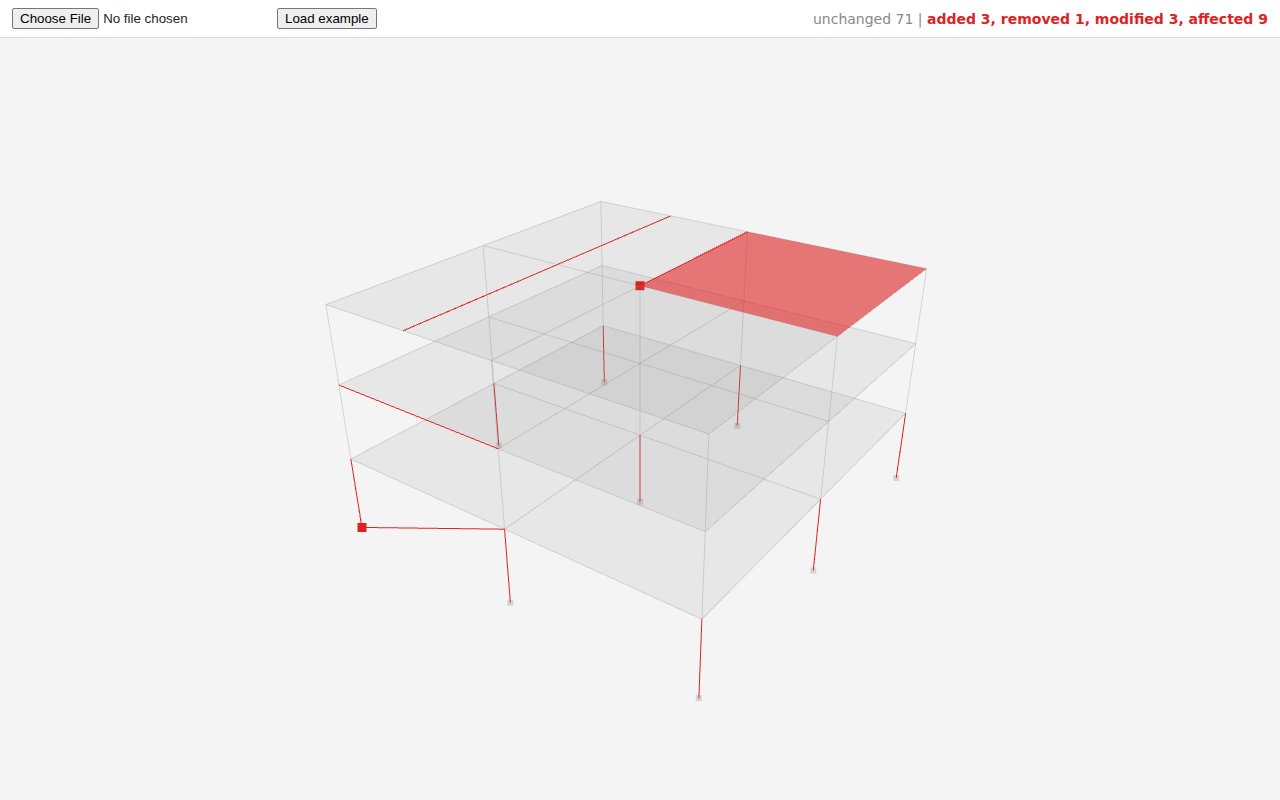
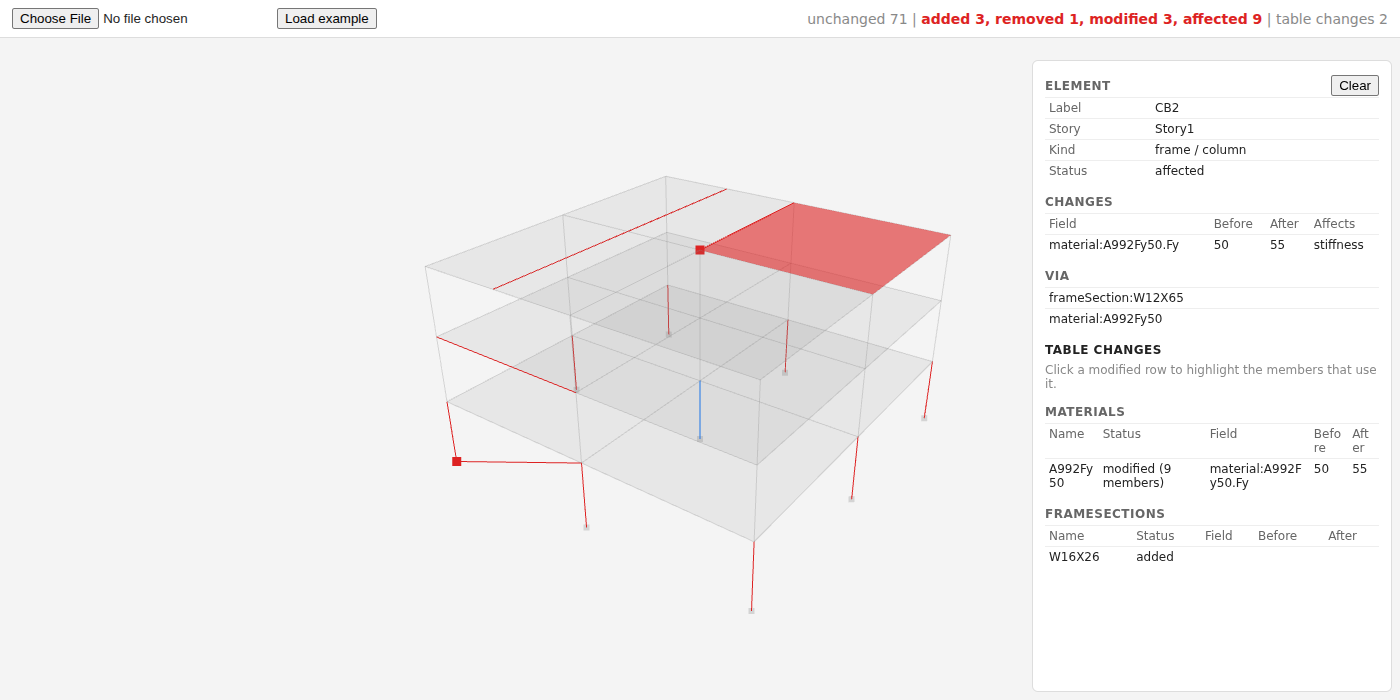
feat: element details and table changes panel in the viewer (#6)
* feat: element details and table changes panel in the viewer

Click an element to see its changes and via list, list every table
change with before and after values, and highlight the members that
use a modified section or material. Calls out when only tables changed.

* docs: viewer screenshot shows the details panel

---------

diff --git a/viewer/index.html b/viewer/index.html
@@ -14,6 +14,19 @@
           background: rgba(210, 34, 34, 0.08); border: 3px dashed #d22; font-size: 20px; z-index: 2; }
   body.dragging #drop { display: flex; }
   canvas { display: block; }
+  #notice { flex-basis: 100%; color: #d22; font-weight: 600; }
+  #notice:empty { display: none; }
+  #side { position: fixed; top: 60px; right: 8px; bottom: 8px; width: 360px; overflow: auto; z-index: 1;
+          background: #fff; border: 1px solid #ddd; border-radius: 6px; padding: 4px 12px 12px; box-sizing: border-box; }
+  #side:empty { display: none; }
+  #side h3 { margin: 14px 0 4px; font-size: 12px; text-transform: uppercase; letter-spacing: .04em; color: #666; }
+  #side table { border-collapse: collapse; width: 100%; font-size: 12px; }
+  #side th, #side td { border-top: 1px solid #eee; padding: 3px 4px; text-align: left; vertical-align: top; overflow-wrap: anywhere; }
+  #side th { color: #666; font-weight: 500; white-space: nowrap; }
+  #side .hint { color: #888; font-size: 12px; margin: 6px 0 0; }
+  #side button { float: right; margin-top: 10px; }
+  tr.pick { cursor: pointer; } tr.pick:hover, tr.on { background: #e3ecfb; }
+  @media (max-width: 640px) { #side { top: auto; left: 8px; width: auto; max-height: 45vh; } }
 </style>
 <script type="importmap">
 { "imports": {
@@ -27,14 +40,16 @@
   <input type="file" id="file" accept=".json,application/json">
   <button id="example">Load example</button>
   <span id="legend" class="gray">Load a diff JSON (file picker or drag and drop)</span>
+  <span id="notice"></span>
 </div>
+<div id="side"></div>
 <div id="drop">Drop diff JSON here</div>
 <script type="module">
 // ponytail: all inline so the page works from file:// (Chrome blocks local module imports there)
 import * as THREE from 'three';
 import { OrbitControls } from 'three/addons/controls/OrbitControls.js';
 
-const GRAY = new THREE.Color(0x888888), RED = new THREE.Color(0xdd2222);
+const GRAY = new THREE.Color(0x888888), RED = new THREE.Color(0xdd2222), PICK = new THREE.Color(0x1a73e8);
 const renderer = new THREE.WebGLRenderer({ antialias: true });
 renderer.setPixelRatio(devicePixelRatio);
 document.body.appendChild(renderer.domElement);
@@ -43,7 +58,8 @@ scene.background = new THREE.Color(0xf4f4f4);
 const camera = new THREE.PerspectiveCamera(45, 1, 1, 1e6);
 camera.up.set(0, 0, 1);  // ETABS is Z-up
 const controls = new OrbitControls(camera, renderer.domElement);
-let model = null;
+let model = null, overlay = null, diff = null;
+const raycaster = new THREE.Raycaster();
 
 function resize() {
   renderer.setSize(innerWidth, innerHeight);
@@ -54,36 +70,134 @@ addEventListener('resize', resize);
 resize();
 renderer.setAnimationLoop(() => { controls.update(); renderer.render(scene, camera); });
 
+// Flatten elements into line/triangle/point arrays, with the owning element per primitive for picking.
+function arrays(els) {
+  const a = { lines: [], tris: [], pts: [], lineEls: [], triEls: [], ptEls: [] };
+  for (const el of els) {
+    const g = el.geometry;
+    if (el.kind === 'frame') { a.lines.push(...g[0], ...g[1]); a.lineEls.push(el); }
+    else if (el.kind === 'point') { a.pts.push(...g[0]); a.ptEls.push(el); }
+    // ponytail: fan triangulation, right for convex areas; use THREE.ShapeUtils if L-shaped walls/slabs show up
+    else for (let i = 1; i < g.length - 1; i++) { a.tris.push(...g[0], ...g[i], ...g[i + 1]); a.triEls.push(el); }
+  }
+  return a;
+}
+
+const geo = arr => new THREE.BufferGeometry().setAttribute('position', new THREE.Float32BufferAttribute(arr, 3));
+
 // One mesh per (kind, changed) bucket keeps draw calls low on large models.
 function build(diff) {
-  const buckets = { gray: { lines: [], tris: [], pts: [] }, red: { lines: [], tris: [], pts: [] } };
-  for (const el of diff.elements) {
-    const b = buckets[el.status === 'unchanged' ? 'gray' : 'red'];
-    const g = el.geometry;
-    if (el.kind === 'frame') b.lines.push(...g[0], ...g[1]);
-    else if (el.kind === 'point') b.pts.push(...g[0]);
-    // ponytail: fan triangulation, right for convex areas; use THREE.ShapeUtils if L-shaped walls/slabs show up
-    else for (let i = 1; i < g.length - 1; i++) b.tris.push(...g[0], ...g[i], ...g[i + 1]);
-  }
   const group = new THREE.Group();
-  for (const [name, b] of Object.entries(buckets)) {
-    const red = name === 'red';
-    const color = red ? RED : GRAY;
-    const look = { color, transparent: !red, opacity: red ? 1 : 0.3, depthWrite: red };
-    const geo = arr => new THREE.BufferGeometry().setAttribute('position', new THREE.Float32BufferAttribute(arr, 3));
-    if (b.tris.length) group.add(new THREE.Mesh(geo(b.tris),
-      new THREE.MeshBasicMaterial({ ...look, side: THREE.DoubleSide, opacity: red ? 0.6 : 0.12, transparent: true })));
-    if (b.lines.length) group.add(new THREE.LineSegments(geo(b.lines), new THREE.LineBasicMaterial(look)));
-    if (b.pts.length) group.add(new THREE.Points(geo(b.pts),
-      new THREE.PointsMaterial({ ...look, size: red ? 9 : 6, sizeAttenuation: false })));
-    if (red) group.children.forEach(o => { o.renderOrder = 1; });  // draw red over the gray ghost
+  for (const red of [false, true]) {
+    const b = arrays(diff.elements.filter(el => (el.status === 'unchanged') !== red));
+    const look = { color: red ? RED : GRAY, transparent: !red, opacity: red ? 1 : 0.3, depthWrite: red };
+    const add = (obj, els) => { obj.userData.els = els; if (red) obj.renderOrder = 1; group.add(obj); };  // red over the gray ghost
+    if (b.tris.length) add(new THREE.Mesh(geo(b.tris),
+      new THREE.MeshBasicMaterial({ ...look, side: THREE.DoubleSide, opacity: red ? 0.6 : 0.12, transparent: true })), b.triEls);
+    if (b.lines.length) add(new THREE.LineSegments(geo(b.lines), new THREE.LineBasicMaterial(look)), b.lineEls);
+    if (b.pts.length) add(new THREE.Points(geo(b.pts),
+      new THREE.PointsMaterial({ ...look, size: red ? 9 : 6, sizeAttenuation: false })), b.ptEls);
   }
   return group;
 }
 
-function show(diff) {
-  if (!Array.isArray(diff?.elements)) throw new Error('not an etabs-diff output: no elements array');
+// Selection and table highlights draw on top of everything in blue.
+function highlight(els) {
+  if (overlay) scene.remove(overlay);
+  overlay = null;
+  if (!els.length) return;
+  const b = arrays(els);
+  const look = { color: PICK, depthTest: false, transparent: true };
+  overlay = new THREE.Group();
+  if (b.tris.length) overlay.add(new THREE.Mesh(geo(b.tris), new THREE.MeshBasicMaterial({ ...look, opacity: 0.5, side: THREE.DoubleSide })));
+  if (b.lines.length) overlay.add(new THREE.LineSegments(geo(b.lines), new THREE.LineBasicMaterial(look)));
+  if (b.pts.length) overlay.add(new THREE.Points(geo(b.pts), new THREE.PointsMaterial({ ...look, size: 11, sizeAttenuation: false })));
+  overlay.children.forEach(o => { o.renderOrder = 2; });
+  scene.add(overlay);
+}
+
+const esc = v => String(v).replace(/[&<>"']/g, c => ({ '&': '&amp;', '<': '&lt;', '>': '&gt;', '"': '&quot;', "'": '&#39;' })[c]);
+const val = v => v == null ? '<i class="gray">none</i>' : esc(typeof v === 'string' ? v : JSON.stringify(v));
+const tableEntries = t => (t?.added?.length || 0) + (t?.removed?.length || 0) + Object.keys(t?.modified || {}).length;
+const viaRef = (table, name) => `${table.replace(/ies$/, 'y').replace(/s$/, '')}:${name}`;  // materials -> material:NAME
+
+function changeRows(changes) {
+  if (!changes?.length) return '<p class="hint">No field changes recorded.</p>';
+  return '<table><tr><th>Field</th><th>Before</th><th>After</th><th>Affects</th></tr>' + changes.map(c =>
+    `<tr><td>${esc(c.field)}</td><td>${val(c.before)}</td><td>${val(c.after)}</td><td>${esc((c.affects || []).join(', '))}</td></tr>`).join('') + '</table>';
+}
+
+function detailsHtml(el) {
+  const row = (k, v) => `<tr><th>${k}</th><td>${esc(v ?? '')}</td></tr>`;
+  return '<button id="clear">Clear</button><h3>Element</h3><table>' + row('Label', el.label) + row('Story', el.story) +
+    row('Kind', `${el.kind} / ${el.subtype}`) + row('Status', el.status) + '</table>' +
+    (el.status === 'unchanged' ? '' : '<h3>Changes</h3>' + changeRows(el.changes)) +
+    (el.via?.length ? '<h3>Via</h3><table>' + el.via.map(v => `<tr><td>${esc(v)}</td></tr>`).join('') + '</table>' : '');
+}
+
+// Every table in the diff, contract ones and any extras the engine adds.
+function tablesHtml(tables, selected) {
+  const out = [];
+  for (const [table, t] of Object.entries(tables || {})) {
+    if (!tableEntries(t)) continue;
+    const rows = [];
+    for (const name of t.added || []) rows.push(`<tr><td>${esc(name)}</td><td>added</td><td colspan="3"></td></tr>`);
+    for (const name of t.removed || []) rows.push(`<tr><td>${esc(name)}</td><td>removed</td><td colspan="3"></td></tr>`);
+    for (const [name, changes] of Object.entries(t.modified || {})) {
+      const ref = viaRef(table, name);
+      const n = diff.elements.filter(el => el.via?.includes(ref)).length;
+      const cls = `pick${ref === selected ? ' on' : ''}`;
+      const status = `modified${n ? ` (${n} member${n === 1 ? '' : 's'})` : ''}`;
+      (changes.length ? changes : [{}]).forEach((c, i) => rows.push(`<tr class="${cls}" data-ref="${esc(ref)}">` +
+        `<td>${i ? '' : esc(name)}</td><td>${i ? '' : status}</td><td>${esc(c.field ?? '')}</td><td>${val(c.before)}</td><td>${val(c.after)}</td></tr>`));
+    }
+    out.push(`<h3>${esc(table)}</h3><table><tr><th>Name</th><th>Status</th><th>Field</th><th>Before</th><th>After</th></tr>${rows.join('')}</table>`);
+  }
+  return out.length ? '<h3 style="color:#222">Table changes</h3><p class="hint">Click a modified row to highlight the members that use it.</p>' + out.join('') : '';
+}
+
+// One side panel: selected element (or highlighted definition) on top, table changes below.
+function render(sel = {}) {
+  const side = document.getElementById('side');
+  let top = '';
+  if (sel.el) top = detailsHtml(sel.el);
+  else if (sel.ref) {
+    const n = diff.elements.filter(el => el.via?.includes(sel.ref)).length;
+    top = `<button id="clear">Clear</button><h3>Highlighted</h3><p class="hint">${n} member${n === 1 ? '' : 's'} using ${esc(sel.ref)} shown in blue.</p>`;
+  } else top = '<p class="hint">Click an element to see what changed.</p>';
+  side.innerHTML = diff ? top + tablesHtml(diff.tables, sel.ref) : '';
+  document.getElementById('clear')?.addEventListener('click', () => select());
+  side.querySelectorAll('tr.pick').forEach(tr => tr.addEventListener('click', () => select({ ref: tr.dataset.ref })));
+}
+
+function select(sel = {}) {
+  highlight(sel.el ? [sel.el] : sel.ref ? diff.elements.filter(el => el.via?.includes(sel.ref)) : []);
+  render(sel);
+}
+
+// Nearest hit wins, but lines and points beat the area faces they sit on.
+function pick(x, y) {
+  if (!model) return;
+  raycaster.setFromCamera(new THREE.Vector2(x / innerWidth * 2 - 1, -(y / innerHeight) * 2 + 1), camera);
+  const hits = raycaster.intersectObjects(model.children, false);
+  const hit = hits.find(h => !h.object.isMesh) || hits[0];
+  if (!hit) return select();
+  const els = hit.object.userData.els;
+  select({ el: hit.object.isLineSegments ? els[hit.index / 2] : hit.object.isPoints ? els[hit.index] : els[hit.faceIndex] });
+}
+
+// Treat a press as a click only if the pointer barely moved, so orbit drags don't select.
+let down = null;
+renderer.domElement.addEventListener('pointerdown', e => { down = [e.clientX, e.clientY]; });
+renderer.domElement.addEventListener('pointerup', e => {
+  if (down && Math.hypot(e.clientX - down[0], e.clientY - down[1]) < 5) pick(e.clientX, e.clientY);
+  down = null;
+});
+
+function show(data) {
+  if (!Array.isArray(data?.elements)) throw new Error('not an etabs-diff output: no elements array');
   if (model) scene.remove(model);
+  diff = data;
   model = build(diff);
   scene.add(model);
   const box = new THREE.Box3().setFromObject(model);
@@ -93,10 +207,18 @@ function show(diff) {
   camera.position.copy(center).add(new THREE.Vector3(1, -1.4, 0.9).multiplyScalar(size * 0.8));
   camera.near = size / 1000; camera.far = size * 100;
   camera.updateProjectionMatrix();
+  raycaster.params.Line.threshold = raycaster.params.Points.threshold = size / 150;
   const n = k => Number(diff.summary?.[k]) || 0;  // Number() so file text never lands in innerHTML
   document.getElementById('legend').innerHTML =
     `<span class="gray">unchanged ${n('unchanged')}</span> | <span class="red">added ${n('added')}, ` +
     `removed ${n('removed')}, modified ${n('modified')}, affected ${n('affected')}</span>`;
+  const drawn = n('added') + n('removed') + n('modified') + n('affected');
+  const tabled = Object.values(diff.tables || {}).reduce((sum, t) => sum + tableEntries(t), 0);
+  document.getElementById('legend').innerHTML += ` | table changes ${tabled}`;
+  document.getElementById('notice').textContent = drawn ? '' : tabled
+    ? `No differences in the 3D view. ${tabled} table change${tabled === 1 ? '' : 's'} listed in the side panel.`
+    : 'No differences found.';
+  select();
 }
 
 async function loadFile(file) {

diff --git a/viewer/README.md b/viewer/README.md
@@ -23,7 +23,11 @@ Either works:
 - **From a static server** (makes "Load example" one click): from this folder run `python -m http.server 8000` and open http://localhost:8000.
 - **Straight to a diff:** put the JSON in the served folder and open `index.html?diff=<relative path>`, e.g. http://localhost:8000/?diff=example-diff.json. Handy for sharing a link to one comparison.
 
-Controls: left drag to orbit, right drag to pan, scroll to zoom. The top right shows the counts per status from the diff's `summary`.
+Controls: left drag to orbit, right drag to pan, scroll to zoom. The top right shows the counts per status from the diff's `summary` plus the number of table changes. If nothing in 3D changed but the tables did, a red note under the counts says so.
+
+Click (or tap) an element to see its label, story, kind, status, each change (field, before, after, affects) and, for affected elements, the `via` list. Click empty space or Clear to drop the selection. The selected element turns blue.
+
+The side panel also lists every table in the diff's `tables` (stories, materials, sections, load patterns, and any extra tables the engine adds) as added, removed, or modified with before and after values. Click a modified row to highlight in blue every member whose `via` names it.
 
 ## Loading a Real Engine Output
 
@@ -43,10 +47,8 @@ The engine is still being built on a separate branch, so until it lands, `exampl
 
 Not built yet, in rough priority order:
 
-1. Click an element to see its `label`, `story`, `status`, `changes`, and `via`.
-2. Separate colors per status (e.g. green added, red removed, orange modified, yellow affected), with toggles to hide each.
-3. Story filter or isolate, using `stories` and each element's `story`.
-4. A panel for `tables` (materials, sections, load patterns that changed).
-5. Thicker lines for red frames (WebGL lines are always 1px; three.js `Line2` fixes this).
-6. Proper triangulation for non-convex areas (L-shaped slabs or walls) with `THREE.ShapeUtils`.
-7. Warn when `schemaVersion` isn't `"0.1"`.
+1. Separate colors per status (e.g. green added, red removed, orange modified, yellow affected), with toggles to hide each.
+2. Story filter or isolate, using `stories` and each element's `story`.
+3. Thicker lines for red frames (WebGL lines are always 1px; three.js `Line2` fixes this).
+4. Proper triangulation for non-convex areas (L-shaped slabs or walls) with `THREE.ShapeUtils`.
+5. Warn when `schemaVersion` isn't `"0.1"`.

diff --git a/viewer/CONTRACT.md b/viewer/CONTRACT.md
@@ -75,7 +75,7 @@ Definitions that aren't elements in space: `stories`, `materials`, `frameSection
 - `removed`: names only in A.
 - `modified`: an object from name to its list of `changes` (same shape as above).
 
-These are the upstream causes behind `affected` elements. The simplified viewer doesn't show them yet.
+These are the upstream causes behind `affected` elements. The viewer lists them in its side panel.
 
 ## `summary`
 
